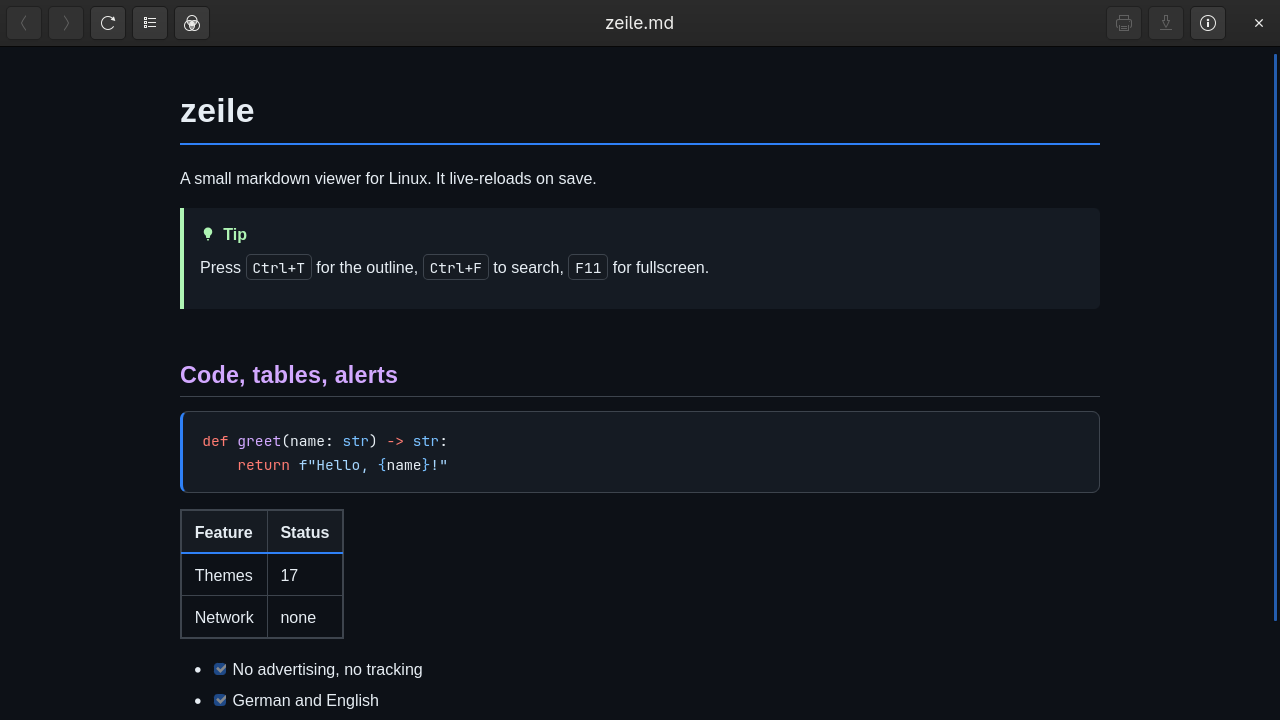
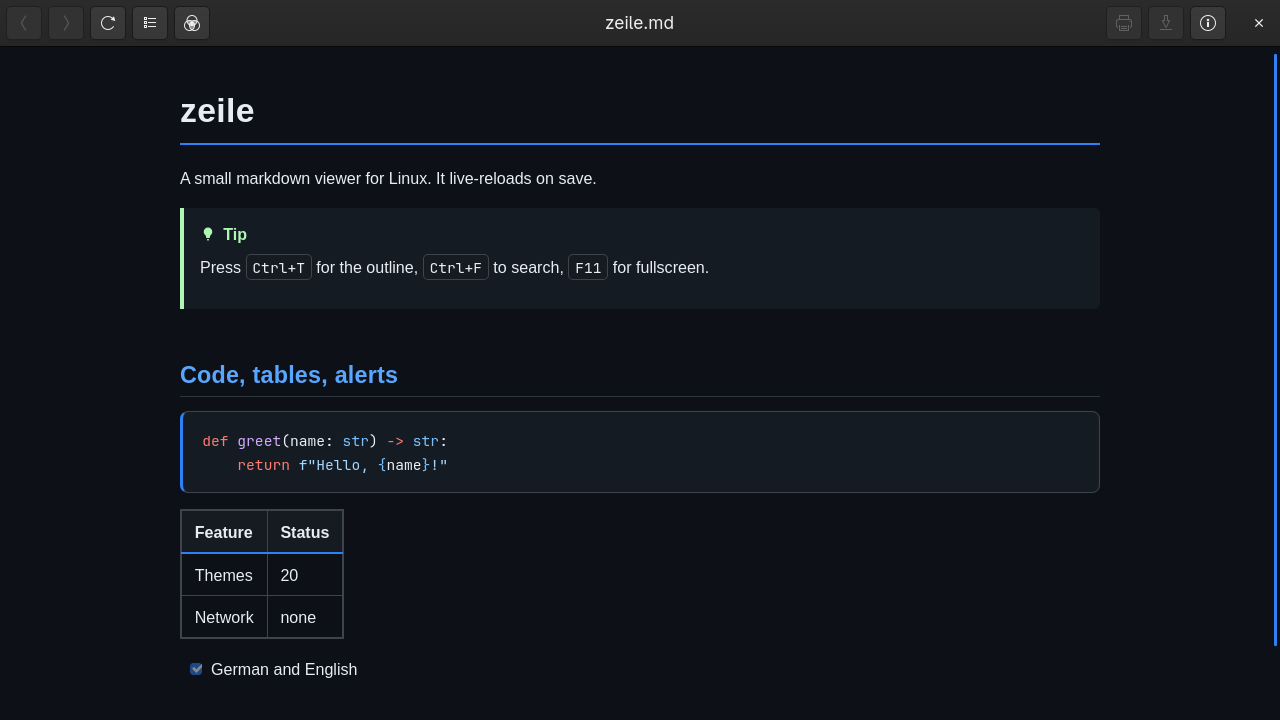
fix(screenshots): drop the advertising slogan from the README sample
scripts/screenshots.py rendered '- [x] No advertising, no tracking' into the
README screenshots. BRAND.md section 2 forbids such slogans in store and
README assets. Remove the line and regenerate docs/screenshots/*.png
headless (cage, WLR_BACKENDS=headless); the new PNGs show the sample
without it. tests/test_screenshots.py and test_headless_gui.py pass (8).

Refs #34

Claude-Session: https://claude.ai/code/session_01DdSBhpsGe4B3wDebPc7PTq

Changed region(s): [[0.125, 0.9167, 0.3438, 0.9778], [0.1562, 0.4889, 0.3125, 0.55]]

diff --git a/scripts/screenshots.py b/scripts/screenshots.py
@@ -47,7 +47,6 @@ def greet(name: str) -> str:
 | Themes  | 20     |
 | Network | none   |
 
-- [x] No advertising, no tracking
 - [x] German and English
 """
 

diff --git a/CHANGELOG.md b/CHANGELOG.md
@@ -9,6 +9,7 @@ Versioning: [Semantic Versioning](https://semver.org/).
 
 ### Fixed
 
+- The README screenshots no longer print the "No advertising, no tracking" slogan (BRAND.md section 2).
 - The deb, rpm, Arch and Flatpak packages did not install `documents.py`, `preferences.py`,
   `launch.py` or `i18n.py`, so the installed app could not start. A test now checks that every
   top-level module is in the staging lists.
